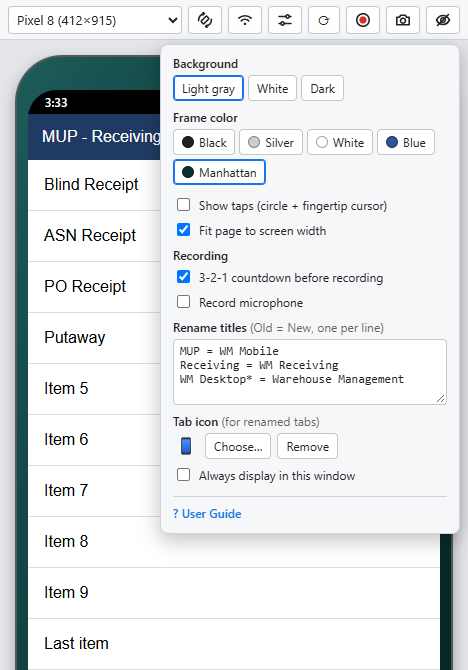
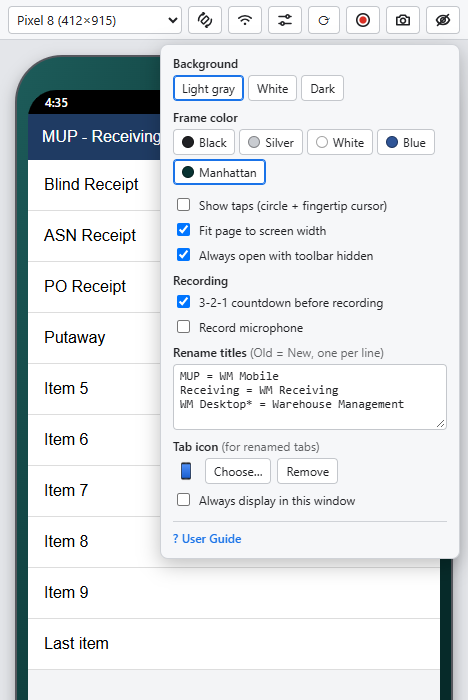
0.19.0: 'Always open with toolbar hidden'; User Guide updated
- Setting label renamed to 'Always open with toolbar hidden'
- Guide: explained in the settings list and in 'Hiding the toolbar';
  refreshed settings-panel picture; README note

Changed region(s): [[0.0299, 0.0, 0.9872, 0.9851], [0.6581, 0.1194, 0.7179, 0.1493], [0.9274, 0.597, 0.9573, 0.6269]]

diff --git a/frame.js b/frame.js
@@ -297,7 +297,7 @@ function drawFrame(L) {
       </div>
       <label class="chk"><input type="checkbox" id="touch"${L.touch ? ' checked' : ''}> Show taps (circle + fingertip cursor)</label>
       <label class="chk" style="margin-top: 6px" title="Shrink pages that are wider than the device screen so they fit without scrolling sideways (this window only)"><input type="checkbox" id="fitWidth"${L.fitWidth ? ' checked' : ''}> Fit page to screen width</label>
-      <label class="chk" style="margin-top: 6px" title="Every new frame window starts with this toolbar hidden (show it with a double-click on the frame${L.shortcut ? `, ${L.shortcut}` : ''}, or the tab at the top)"><input type="checkbox" id="openHidden"${L.openHidden ? ' checked' : ''}> Open with toolbar hidden</label>
+      <label class="chk" style="margin-top: 6px" title="Every new frame window starts with this toolbar hidden (show it with a double-click on the frame${L.shortcut ? `, ${L.shortcut}` : ''}, or the tab at the top)"><input type="checkbox" id="openHidden"${L.openHidden ? ' checked' : ''}> Always open with toolbar hidden</label>
       <div class="lbl">Recording</div>
       <label class="chk" style="margin-top: 0"><input type="checkbox" id="countdown"${L.countdown ? ' checked' : ''}> 3-2-1 countdown before recording</label>
       <label class="chk" style="margin-top: 6px"><input type="checkbox" id="mic"${L.mic ? ' checked' : ''}> Record microphone</label>

diff --git a/USER_GUIDE.md b/USER_GUIDE.md
@@ -124,6 +124,10 @@ Click <img src="docs/icons/sliders.svg" width="16"> to open it; click anywhere e
   can see what you tapped.
 - **Fit page to screen width** – shrink too-wide pages and long words to fit
   the device screen (see section 4). Untick to see the page at its true size.
+- **Always open with toolbar hidden** – on by default. Every new frame window
+  starts with the toolbar hidden for a clean, demo-ready screen, no matter how
+  you left it last time (see section 8 to show it). Untick it to have the
+  window remember whether the toolbar was showing.
 - **3-2-1 countdown before recording** – on by default; untick to start
   recording immediately.
 - **Record microphone** – include your voice in recordings (see section 7).
@@ -175,7 +179,9 @@ recorded without sound.
 
 ## 8. Hiding the toolbar
 
-Click <img src="docs/icons/eyeOff.svg" width="16"> to hide the bar for a clean, minimal window. To bring it back:
+New frame windows open with the toolbar **already hidden** (setting **Always
+open with toolbar hidden**, on by default – untick it in the settings panel to
+keep the toolbar showing). You can also click <img src="docs/icons/eyeOff.svg" width="16"> to hide the bar at any time. To bring it back:
 
 - **double-click** the device frame or the background around it,
 - press **Alt+Shift+H**, or

diff --git a/README.md b/README.md
@@ -44,7 +44,8 @@ The control bar above the device has:
 
 Close the window to turn the frame off. Device, custom size, orientation,
 status bar, background, toolbar visibility and window position are all
-remembered. Keyboard shortcuts can be changed at
+remembered (with **Always open with toolbar hidden**, on by default, new windows
+start with the toolbar hidden). Keyboard shortcuts can be changed at
 `chrome://extensions/shortcuts`.
 
 ## How it works
